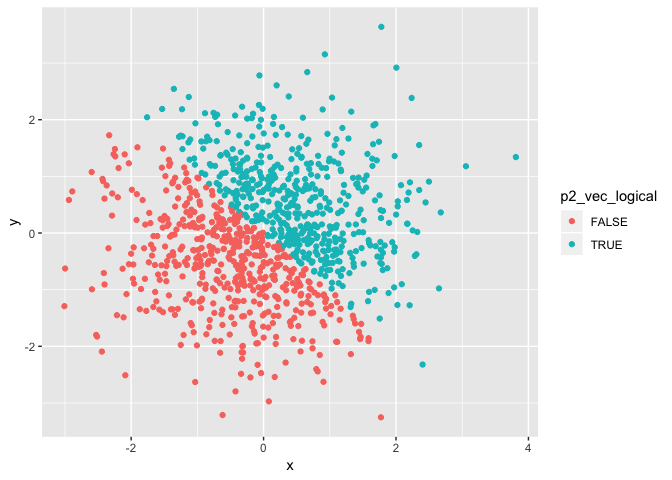
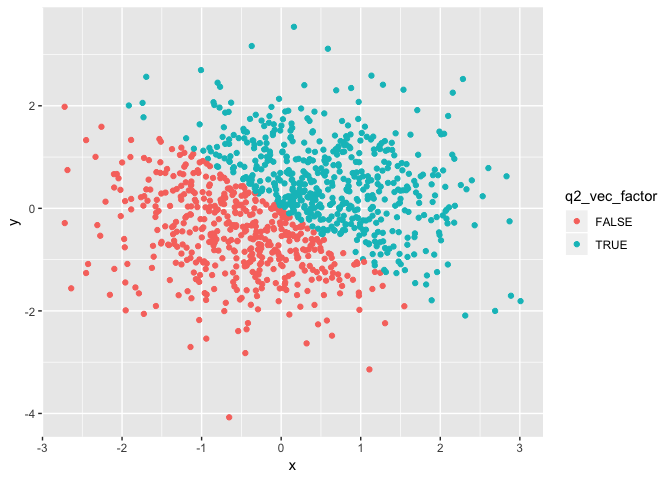
Finished question 1 and worked on question 2 inline.

diff --git a/p8105_hw1_bs3142.md b/p8105_hw1_bs3142.md
@@ -42,9 +42,9 @@ q1_df = tibble(q1_random_sample = runif(n = 10, min = 0, max = 5),
 )
 ```
 
-### (b) Mean of each variable in my dataframe
+### (b) Means of variables
 
-Try to take the mean of each variable in your dataframe. What works and what doesn’t? Why?
+Means for my random sample, character vector, logical vector, and factor vector are:
 
 ``` r
 mean(q1_df$q1_random_sample)
@@ -76,11 +76,11 @@ mean(q1_df$q1_vec_factor)
 
     ## [1] NA
 
-Means of random\_sample and logical vector work, whereas means for character vector and factor vector do not work. This is because means can only be calculated from numeric values.
+Reasoning: Using mean() function, mean of my random sample and mean of logical vector can be computed. However, it does not apply to charactor or factor vector. By definition, mean only applies to numeric variables. Since my randomly generated sample is numeric, mean() function works. For logical vector, the condtion "true" or "false" is represented as 1s or 0s respectively, the mean is calculable.
 
-#### (c) Convert character, logical, and factor vectors to numeric numbers
+#### (c) Conversion
 
--   Write a code chunk that applies the as.numeric function to the logical, character, and factor variables (show this chunk but not the output).
+Using as.numeric function to convert the logical, character, and factor variables to numeric numbers (code is included but not the output).
 
 ``` r
 as.numeric(q1_df$q1_vec_char)
@@ -88,25 +88,45 @@ as.numeric(q1_df$q1_vec_logical)
 as.numeric(q1_df$q1_vec_factor)
 ```
 
--   In a second code chunk, convert your character variable from character to factor to numeric; similarly, convert your factor variable from factor to character to numeric. What happens?
+-   as.numeric() function can covert logical and factor vectors to numbers, except character vector.
+
+More conversions
 
 ``` r
-q1_vec_char2 <- as.factor(q1_df$q1_vec_char)
-as.numeric(q1_vec_char2)
+as.factor(q1_df$q1_vec_char)
+```
+
+    ##  [1] This     is       trying   to       answer   question one     
+    ##  [8] of       homework one     
+    ## Levels: answer homework is of one question This to trying
+
+``` r
+as.numeric(as.factor(q1_df$q1_vec_char))
 ```
 
     ##  [1] 7 3 9 8 1 6 5 4 2 5
 
 ``` r
-q1_vec_fac2 <- as.character(q1_df$q1_vec_factor)
-as.numeric(q1_vec_fac2)
+as.character(q1_df$q1_vec_factor)
+```
+
+    ##  [1] "blue"  "green" "blue"  "green" "green" "blue"  "blue"  "green"
+    ##  [9] "blue"  "green"
+
+``` r
+as.numeric(as.character(q1_df$q1_vec_factor))
 ```
 
     ## Warning: NAs introduced by coercion
 
     ##  [1] NA NA NA NA NA NA NA NA NA NA
 
-When character variable is converted to factor variable first, it can be converted to numeric factor. However, when a factor is converted to character, it can no longer be converted to numeric factor. Therefore, only factor vector can be converted to numeric values.
+-   Observation:
+    -   Characters are converted to factors by assigning levels to each factor
+    -   Numbers are assigned to factors corresponding to factor variables' level
+    -   Similarly, factors can be converted to characters
+    -   Since characters have no order, it is unable to assign numerics to characters
+    -   In summary, it is convertable between character and factor vectors, but only factor vector can be converted to numeric values.
 
 Problem 2
 =========
@@ -124,19 +144,22 @@ This problem focuses on plotting and the use of inline R code.
     -   A factor vector created by coercing the above logical vector
 
 ``` r
-p2_df = tibble(x = rnorm(n = 1000, mean = 0, sd = 1),
+set.seed(2)
+
+q2_df = tibble(x = rnorm(n = 1000, mean = 0, sd = 1),
                y = rnorm(n = 1000, mean = 0, sd = 1),
-               p2_vec_logical = c(x + y > 0),
-               p2_vec_numeric = as.numeric(p2_vec_logical),
-               p2_vec_factor = as.factor(p2_vec_logical),
+               q2_vec_logical = c(x + y > 0),
+               q2_vec_numeric = as.numeric(q2_vec_logical),
+               q2_vec_factor = as.factor(q2_vec_logical),
 )
 ```
 
-### (b) Summary using inline R code
+### (b) Summary
 
-Write a short description of your vector using inline R code, including: \* the size of the dataset \* the mean and median of x \* the proportion of cases for which the logical vector is TRUE
-
-The size of dataset is , the mean of x is -0.0106382, and the median of x is -0.031318, the proportion of cases for which the logical vector is TRUE is \`r pro
+-   A short description of my vector using inline R code:
+    -   the **size** of the dataset is 1000 rows by 5 columns
+    -   the **mean** and **median** of x are 0.0619987 and 0.0501354 respectively
+    -   the **proportion** of cases for which the logical vector is TRUE is 0.53.
 
 Scatterplot
 -----------
@@ -144,35 +167,35 @@ Scatterplot
 Make a scatterplot of y vs x.
 
 ``` r
-p2_xy_sp1 <- ggplot(p2_df, aes(x = x, y = y, color = p2_vec_logical)) + geom_point()
+q2_xy_sp1 <- ggplot(q2_df, aes(x = x, y = y, color = q2_vec_logical)) + geom_point()
 
-p2_xy_sp1
+q2_xy_sp1
 ```
 
-![](p8105_hw1_bs3142_files/figure-markdown_github/unnamed-chunk-5-1.png) Blue dots represent x + y &gt; 0, and red dots represent x + y &lt; 0.
+![](p8105_hw1_bs3142_files/figure-markdown_github/unnamed-chunk-3-1.png) Blue dots represent x + y &gt; 0, and red dots represent x + y &lt; 0.
 
 ``` r
-p2_xy_sp2 <- ggplot(p2_df, aes(x =x, y = y, color = p2_vec_numeric)) + geom_point()
+q2_xy_sp2 <- ggplot(q2_df, aes(x =x, y = y, color = q2_vec_numeric)) + geom_point()
 
-p2_xy_sp2
+q2_xy_sp2
 ```
 
-![](p8105_hw1_bs3142_files/figure-markdown_github/unnamed-chunk-6-1.png)
+![](p8105_hw1_bs3142_files/figure-markdown_github/unnamed-chunk-4-1.png)
 
 ``` r
-p2_xy_sp3 <- ggplot(p2_df, aes(x =x, y = y, color = p2_vec_factor)) + geom_point()
+q2_xy_sp3 <- ggplot(q2_df, aes(x =x, y = y, color = q2_vec_factor)) + geom_point()
 
-p2_xy_sp3
+q2_xy_sp3
 ```
 
-![](p8105_hw1_bs3142_files/figure-markdown_github/unnamed-chunk-7-1.png)
+![](p8105_hw1_bs3142_files/figure-markdown_github/unnamed-chunk-5-1.png)
 
 They all look the same.
 
 Export your first scatterplot to your project directory using ggsave.
 
 ``` r
-ggsave("p2_xy_sp1.pdf")
+ggsave("q2_xy_sp1.pdf")
 ```
 
     ## Saving 7 x 5 in image
